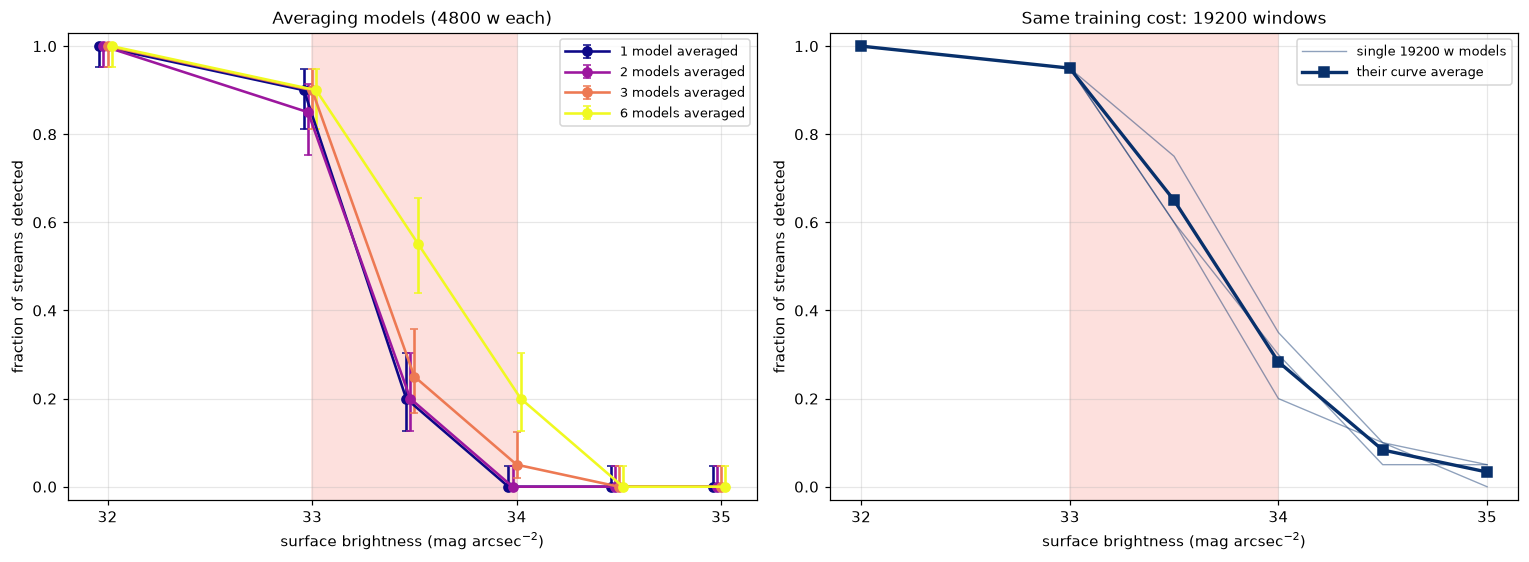
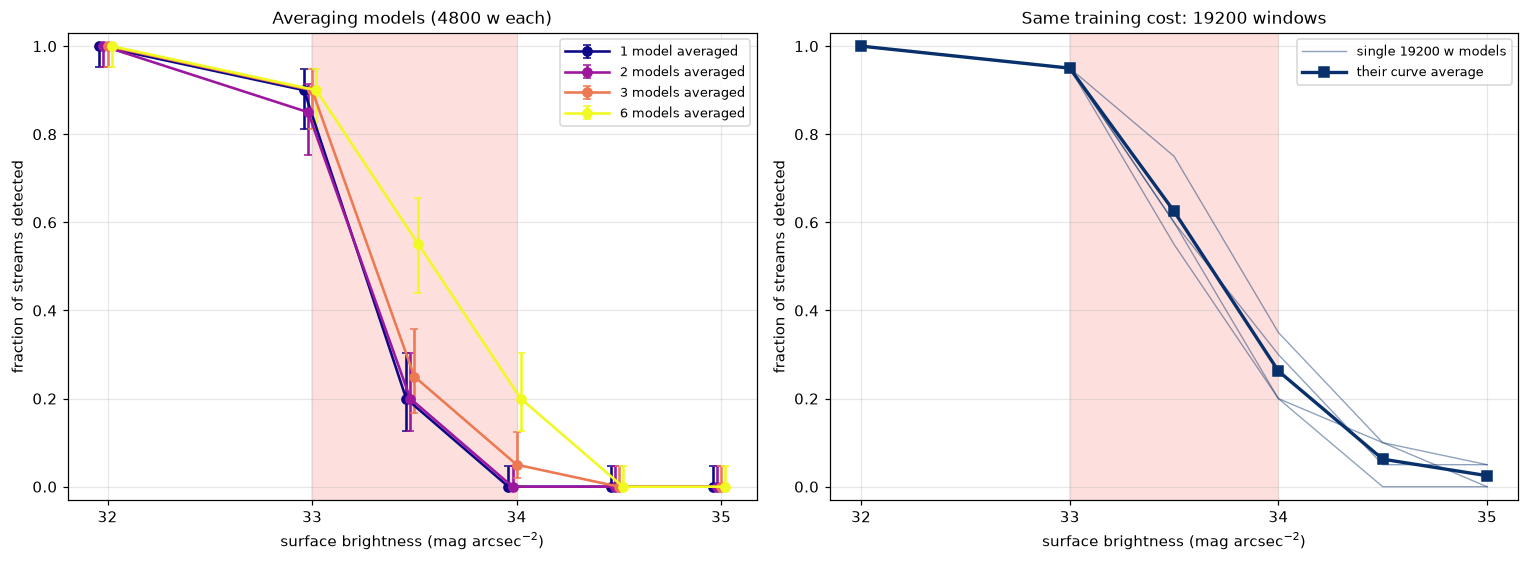
Matched-background test: correct the training-range claim
Comparing every model at the threshold where it flags the same fraction of
stream-free sky, rather than at 0.5, moves two conclusions. The training
range's large advantage at a fixed threshold is mostly an operating-point
shift: at matched background the two ranges are within a few points.
Training length is the opposite, a real improvement that the fixed threshold
hid, since a longer training also flags far less background. Averaging
survives the test and is the only lever that both raises detection and
lowers the false-alarm rate.

Figure 6 gains the single-model and six-model ensemble curves, so the test
covers every claim the page makes, and summary.py prints the matched tables.

Changed region(s): [[0.707, 0.1512, 0.83, 0.6352], [0.8914, 0.7865, 0.9836, 0.8772], [0.83, 0.6352, 0.8914, 0.7865]]

diff --git a/scripts/experiments/hyperparameters/summary.py b/scripts/experiments/hyperparameters/summary.py
@@ -358,63 +358,69 @@ def figure_ensemble(results, per_seed):
     plt.close(fig)
 
 
-def figure_matched_background(results):
-    """6: every model at the same background level."""
-    targets = [1e-4, 1e-3]
+MATCHED_TARGETS = (1e-4, 1e-3)
+
+
+def matched_background(frame, keys):
+    """Detection when each model is thresholded at its own background density.
+
+    For every model the threshold is the first one on THRESHOLD_GRID whose
+    stream-free density is at or below the target, so the models are compared
+    at the same false-alarm rate instead of at the same threshold. Detection
+    here is the ">= 20 flagged pixels" condition alone: the SNR compares the
+    band with the background, which this construction already fixes.
+    """
     rows = []
-    for (name, seed, sb), group in results[results["n_above_band"].notna()].groupby(
-        ["configuration", "seed", "richness"]
-    ):
+    for key, group in frame[frame["n_above_band"].notna()].groupby(list(keys)):
         control = np.sum(np.stack(list(group["n_above_no_stream"])), axis=0)
         control_pixels = float((group["fp_no_stream"] + group["tn_no_stream"]).sum())
         density = control / control_pixels
         flagged = np.stack(list(group["n_above_band"]))
-        for target in targets:
+        for target in MATCHED_TARGETS:
             reachable = np.flatnonzero(density <= target)
             if not reachable.size:
                 continue
-            k = reachable[0]
-            rows.append(
-                {
-                    "configuration": name,
-                    "seed": seed,
-                    "richness": sb,
-                    "target": target,
-                    "detected": (flagged[:, k] >= 20).mean(),
-                }
-            )
-    matched = pd.DataFrame(rows)
+            row = dict(zip(keys, key, strict=True))
+            row["target"] = target
+            row["detected"] = (flagged[:, reachable[0]] >= 20).mean()
+            rows.append(row)
+    return pd.DataFrame(rows)
+
+
+def figure_matched_background(results):
+    """6: every model at the same background level, ensembles included."""
+    matched = matched_background(results, ("configuration", "seed", "richness"))
     if matched.empty:
         return
-    fig, axes = plt.subplots(1, len(targets), figsize=(13.5, 5.2), sharey=True)
+    path = DATA / "ensemble_results.pkl"
+    ensembles = (
+        matched_background(pd.read_pickle(path), ("ensemble_size", "richness"))
+        if path.exists()
+        else pd.DataFrame()
+    )
+    fig, axes = plt.subplots(1, len(MATCHED_TARGETS), figsize=(13.5, 5.2), sharey=True)
     styles = {
-        f"w1200_{NARROW}_d2_b12_lr0.002_bs8": ("#1f77b4", "o", "-", "1200 w, SB 31-34"),
-        f"w4800_{NARROW}_d2_b12_lr0.002_bs8": (
-            "#08306b",
-            "s",
-            "--",
-            "4800 w, SB 31-34",
-        ),
+        f"w4800_{NARROW}_d2_b12_lr0.002_bs8": ("#1f77b4", "o", "-", "4800 w, SB 31-34"),
         f"w1200_{FAINT}_d2_b12_lr0.002_bs8": (
-            "#e6550d",
+            "#fdae6b",
             "^",
             "-",
             "1200 w, SB 32-34.5",
         ),
         f"w4800_{FAINT}_d2_b12_lr0.002_bs8": (
-            "#a63603",
+            "#e6550d",
             "v",
             "--",
             "4800 w, SB 32-34.5",
         ),
         f"w19200_{FAINT}_d2_b12_lr0.002_bs8": (
-            "#54278f",
+            "#a63603",
             "D",
             ":",
             "19200 w, SB 32-34.5",
         ),
     }
-    for ax, target in zip(axes, targets, strict=True):
+    for ax, target in zip(axes, MATCHED_TARGETS, strict=True):
         for name, (color, marker, ls, text) in styles.items():
             data = matched[(matched.configuration == name) & (matched.target == target)]
             if data.empty:
@@ -429,6 +435,23 @@ def figure_matched_background(results):
                 lw=1.7,
                 label=text,
             )
+        if not ensembles.empty:
+            for size, colour, ls in ((1, "#7fcdbb", "-"), (6, "#00441b", "-")):
+                data = ensembles[
+                    (ensembles.ensemble_size == size) & (ensembles.target == target)
+                ].sort_values("richness")
+                if data.empty:
+                    continue
+                ax.plot(
+                    data["richness"],
+                    data["detected"],
+                    marker="*",
+                    ms=10,
+                    color=colour,
+                    ls=ls,
+                    lw=2.0,
+                    label=f"{size} model{'s' if size > 1 else ''} averaged",
+                )
         decorate(ax)
         ax.set_title(f"background density {target:.0e}", fontsize=10.5)
     legend(axes[0])
@@ -470,6 +493,15 @@ def main():
         .round(2)
         .to_string()
     )
+    matched = matched_background(results, ("configuration", "seed", "richness"))
+    for target in MATCHED_TARGETS:
+        print(f"\n== streams detected at a matched background density of {target:.0e}")
+        print(
+            matched[matched.target == target]
+            .pivot_table(index="configuration", columns="richness", values="detected")
+            .round(2)
+            .to_string()
+        )
     print("\nfigures in", FIGURES)
 
 

diff --git a/docs/source/experiments/hyperparameters.md b/docs/source/experiments/hyperparameters.md
@@ -47,9 +47,10 @@ least 20 pixels are flagged within 1σ of its track *and* the signal-to-noise
 of their density against 200 stream-shaped background bands is at least 2 (see
 "Is the stream detected?" in {doc}`index`). Every figure uses threshold 0.5.
 That value is not optimized: it is the natural threshold of a sigmoid output,
-and fixing one value keeps the models comparable. Tuning it per model is left
-for later, and the last figure checks that the conclusions do not come from
-that choice.
+and fixing one value keeps the models comparable. But a fixed threshold does
+not put two models at the same false-alarm rate, so figure 6 redoes every
+comparison at matched background instead — and it changes some of the
+conclusions, which is why it is worth reading before acting on figures 1 to 3.
 
 **Two different uncertainties**, which the figures draw differently:
 
@@ -88,13 +89,15 @@ later without retraining.
 
 ## Results
 
-### 1. The training surface brightness range is the lever
+### 1. The training surface brightness range sets where the model operates
 
-**Statement.** Which surface brightnesses the model is trained on decides
-where its detections stop, far more than anything else tested. Moving the
-training range from 31-34 to 32-34.5 raises detection at SB 34 from 5-8% to
-20-36% and at SB 33.5 from 16-20% to 48-67%, at the price of a background 10
-to 30 times dirtier.
+**Statement.** At a fixed threshold, which surface brightnesses the model is
+trained on decides where its detections stop, far more than anything else
+tested. Moving the training range from 31-34 to 32-34.5 raises detection at
+SB 34 from 5-8% to 20-36% and at SB 33.5 from 16-20% to 48-67% — and makes the
+background 10 to 30 times dirtier at the same time. Section 6 shows that this
+is mostly a change of operating point rather than a better model: at a matched
+false-alarm rate the two ranges perform almost the same.
 
 ```{image} figures/hyperparameters/1_training_range.png
 :alt: Fraction of streams detected against surface brightness, for 1200 and 4800 training windows on each of the two training ranges
@@ -123,11 +126,14 @@ general. Nothing here says the network learned a general notion of "stream";
 it learned where the decision boundary should sit for the population it was
 trained on.
 
-### 2. Training longer trades detection against a clean background
+### 2. Training longer is a real improvement, hidden by the fixed threshold
 
-**Statement.** On the fainter range, training longer makes the background
-cleaner and the faint-end detections weaker, until the two effects roughly
-cancel. It does not remove the trade-off; it moves along it.
+**Statement.** At threshold 0.5, training longer looks like a step backwards:
+the background gets cleaner and the faint-end detections get weaker. At a
+matched false-alarm rate the picture reverses — a longer training detects
+strictly more, taking SB 33.5 from 31% (1200 windows) to 60% (19200 windows)
+at a background density of 1e-3. Training length improves the model; the fixed
+threshold was hiding it by moving the operating point.
 
 ```{image} figures/hyperparameters/2_training_length.png
 :alt: Detection fraction and background density against surface brightness for 1200 to 19200 training windows on the fainter range
@@ -142,12 +148,14 @@ log scale — note that it moves by more than a decade while detection moves by
 tens of percent.*
 
 Between 1200 and 9600 windows, detection at SB 33.5 falls from 67% to 49%
-while the background density falls from 5.4e-3 to 7.2e-4. A longer training
-fits the training population more sharply, and since faint streams are
-genuinely ambiguous, a sharper fit means fewer marginal pixels flagged —
-both the false ones and the true ones. Training length is therefore not a way
-to escape the trade-off of figure 1; it is a second control on the same knob,
-and a slower one.
+while the background density falls from 5.4e-3 to 7.2e-4 — a factor 7 cleaner
+for a fifth of the detections lost. A longer training is more confident, so
+fewer marginal pixels pass 0.5: both the false ones and the true ones. Read at
+a fixed threshold that looks like a trade-off, but it is a slide along the
+model's detection-versus-false-alarm curve, and figure 6 shows that the curve
+itself has moved in the right direction. The practical consequence is that
+training length should be judged at a matched false-alarm rate, and the
+threshold set afterwards.
 
 ### 3. Depth and width change nothing
 
@@ -212,9 +220,11 @@ addresses.
 ### 5. Averaging several trainings is what recovers the faint end
 
 **Statement.** Averaging the per-pixel probabilities of N independently
-trained models, then thresholding once, detects more faint streams than any
-of the models alone, and removes the seed lottery. At equal training cost,
-averaging four short trainings is close to a single long one.
+trained models, then thresholding once, detects more faint streams than any of
+the models alone, and removes the seed lottery. The gain survives the
+matched-background test of section 6, so it is a better model and not just a
+looser threshold. At equal training cost, averaging four short trainings is
+close to a single long one.
 
 ```{image} figures/hyperparameters/5_ensemble.png
 :alt: Detection fraction for ensembles of 1 to 6 averaged models, and the equal-cost comparison between four averaged 4800-window models and single 19200-window models
@@ -246,47 +256,76 @@ average, but its individual curves scatter (thin lines), and you get one draw
 from that scatter; the average of four gives one prediction, reproducible in
 the sense that the remaining spread is much smaller.
 
-### 6. The same conclusions at a matched background level
+### 6. Which of those effects are real, and which are the threshold moving
 
-**Statement.** The comparisons above are not artefacts of fixing the
-threshold at 0.5. Comparing every model at the threshold where it flags the
-same fraction of stream-free sky gives the same ordering.
+**Statement.** Compared at the threshold where each model flags the same
+fraction of stream-free sky, the training range's large advantage nearly
+disappears, while training length and model averaging keep theirs. The
+training range mostly moves the operating point; training length and averaging
+move the model.
 
 ```{image} figures/hyperparameters/6_matched_background.png
-:alt: Detection fraction against surface brightness for each configuration, with each model thresholded at its own background density of 1e-4 and 1e-3
+:alt: Detection fraction against surface brightness for four configurations and for one versus six averaged models, each thresholded at its own background density of 1e-4 and 1e-3
 :width: 100%
 ```
 
-*Each model's own threshold is chosen per panel so that it flags the target
-fraction of stream-free sky (1e-4 on the left, 1e-3 on the right), instead of
-using 0.5 everywhere; the curves are then means over that configuration's
-trainings. Detection here is the ≥ 20 flagged pixels condition only: the SNR
-is defined against the background, which is fixed by construction in this
-figure.*
+*Each model's threshold is chosen per panel so that it flags the target
+fraction of stream-free sky (1e-4 left, 1e-3 right) instead of using 0.5
+everywhere; curves are then means over that configuration's trainings. The two
+star curves are a single 4800-window model and an average of six, treated the
+same way — one prediction each, not a mean over trainings, which is why the
+single-model star sits slightly below the 4800-window curve above it. Detection here is the ≥ 20 flagged pixels condition only: the
+SNR compares the band with the background, which this construction has already
+fixed. The panels are two operating points, not two experiments — 1e-4 is a
+stricter false-alarm budget than 1e-3, so every curve sits lower on the left.*
 
-A fixed threshold puts different models at very different false-alarm rates —
-a factor of 30 between the two training ranges in figure 1 — so this is the
-fair comparison, and the one relevant to a survey, where the false-alarm rate
-is the resource being spent. The training range keeps its advantage at a
-matched background level, which means it genuinely detects faint streams
-rather than simply flagging more of everything.
+A fixed threshold puts these models at false-alarm rates that differ by a
+factor of 30, so this is the fair comparison, and the one a survey cares about:
+the false-alarm rate is the resource being spent. At a matched rate, at SB 33.5:
+
+| | 1e-4 | 1e-3 |
+|---|---|---|
+| 4800 w, SB 31-34 | 20% | 35% |
+| 4800 w, SB 32-34.5 | 21% | 44% |
+| 1200 w, SB 32-34.5 | 7% | 31% |
+| 19200 w, SB 32-34.5 | 25% | 60% |
+| 1 model (4800 w) | 20% | 35% |
+| 6 models averaged | 30% | 55% |
+
+The two training ranges are within a few points of each other — nothing like
+the 48% against 20% that figure 1 shows at threshold 0.5. Training on fainter
+streams mainly makes the model less conservative, which a threshold can do
+too. What survives the matched comparison is training length (31% → 60% at
+1e-3) and averaging (35% → 55% at 1e-3, 20% → 30% at 1e-4): both genuinely
+detect more faint streams at the same cost in false alarms.
+
+This does not make the training range irrelevant. A model trained on 31-34
+cannot be pushed to the faint end by lowering its threshold indefinitely — at
+1e-3 it saturates around 35% at SB 33.5 — and the faint range is what lets the
+longer trainings and the ensembles reach the numbers above. But the headline
+"training range doubles the SB 34 detections" is an operating-point effect,
+and should be reported as one.
 
 ## What to use
 
 For the streams this project targets, on this training population:
 
-- **Train on SB 32-34.5**, not 31-34. The range is chosen to bracket the
-  target, not to match it.
-- **4800 windows** is a reasonable point on the length trade-off; 1200 is
-  more sensitive but flags 0.5% of the background, and longer trainings buy
-  cleanliness that averaging provides more cheaply.
+- **Set the threshold from a false-alarm budget, not to 0.5.** This is the
+  first decision, not the last one: at 0.5 two models that differ only in
+  training length sit at false-alarm rates an order of magnitude apart, and
+  comparing them there points the wrong way (section 2).
+- **Train on SB 32-34.5**, bracketing the target rather than matching it. Its
+  advantage at a fixed threshold is mostly an operating-point shift, but the
+  longer trainings and the ensembles that do help are all on this range, and
+  the narrow range saturates below them (section 6).
+- **Train as long as you can afford**: 19200 windows is the best model here at
+  a matched false-alarm rate, and 4800 is a reasonable compromise at a quarter
+  of the cost.
 - **Depth 2, width 12.** Nothing larger helped, so the cheapest network wins.
-- **Average 4 to 6 trainings** into one prediction. This is what turns a
-  model that may or may not see SB 34 streams into one that reliably sees
-  some of them.
-- **Threshold 0.5** everywhere here, unoptimized on purpose; a deployed
-  search should set it from an acceptable false-alarm rate instead, as
-  figure 6 does.
+- **Average 4 to 6 trainings** into one prediction. This is what turns a model
+  that may or may not see SB 34 streams into one that reliably sees some of
+  them, and it is the only lever that both raises detection and lowers the
+  false-alarm rate.
 
 ## Caveats
 
